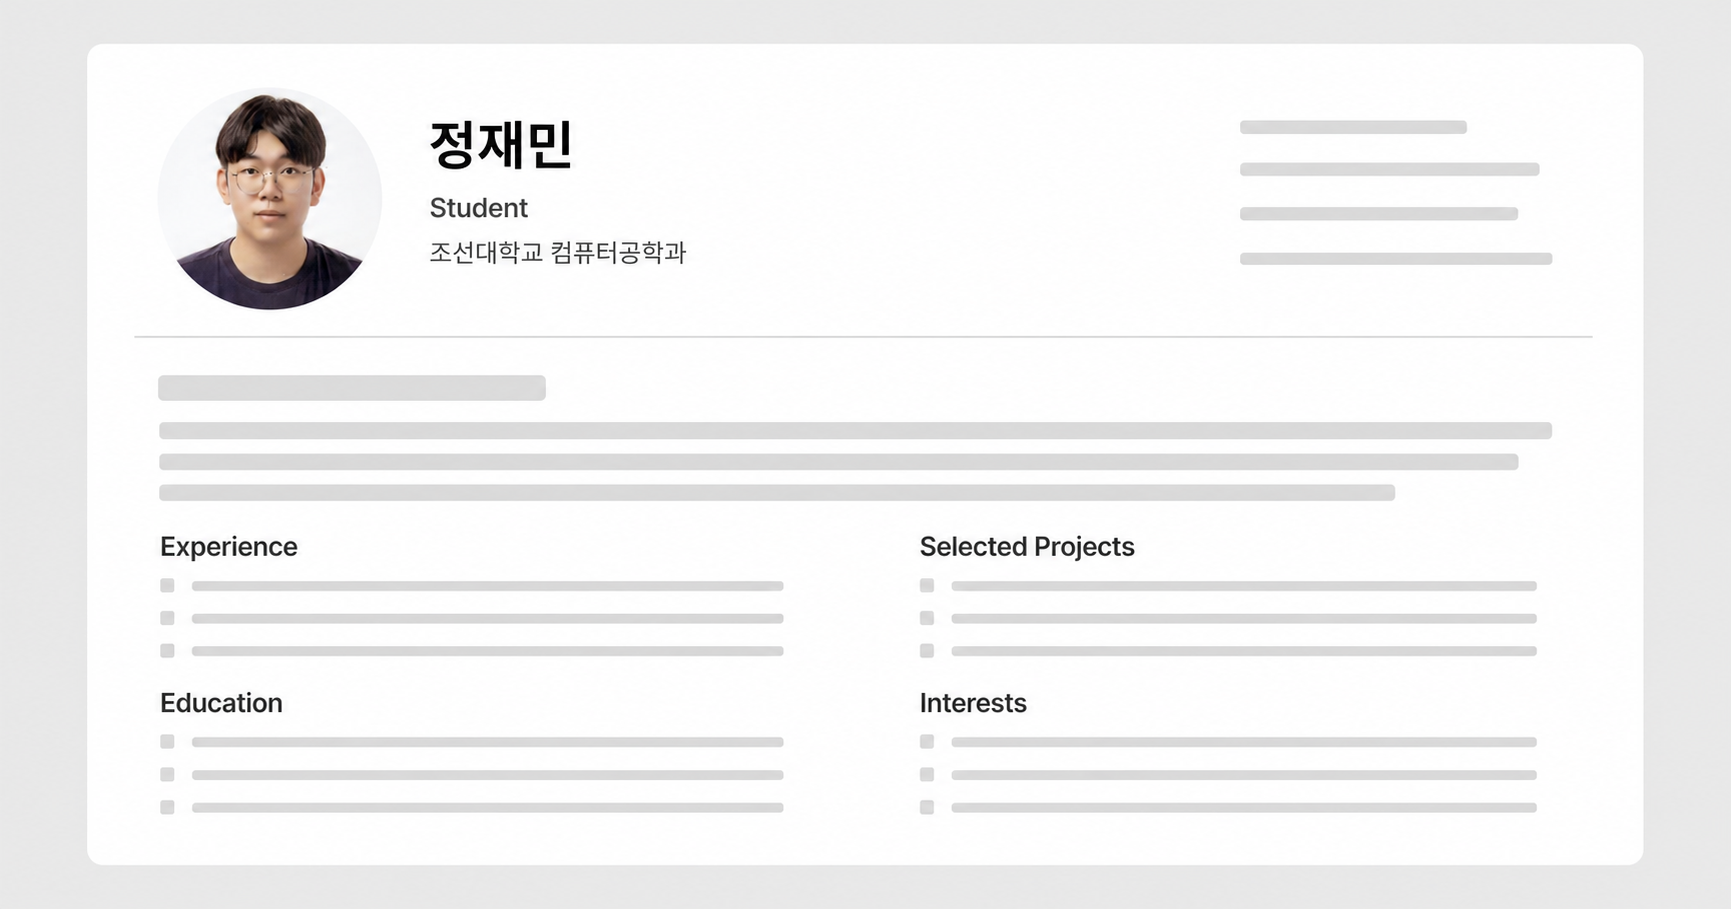
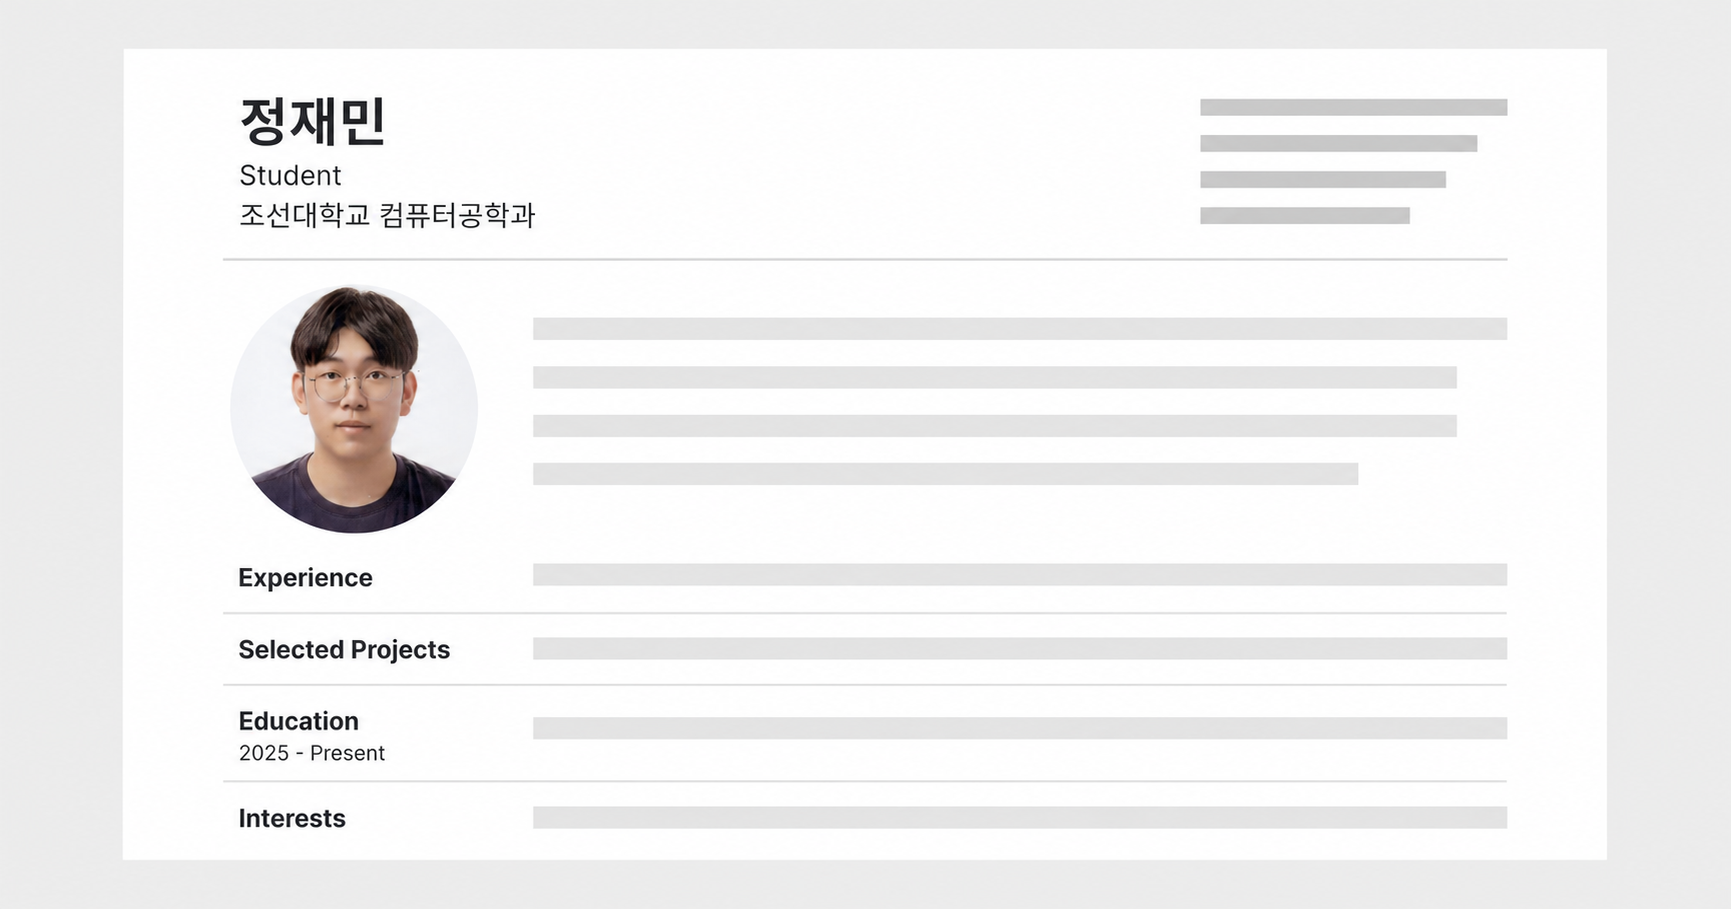
Update university entry year

diff --git a/index.html b/index.html
@@ -34,7 +34,7 @@
         <section class="resume-intro" aria-label="소개">
           <img class="profile-image" src="./profile.png" alt="정재민 프로필 사진" />
           <p>
-            저는 조선대학교 컴퓨터공학과에 재학 중인 정재민입니다. 아이디어를 실제로 작동하는 제품으로
+            저는 2025년 조선대학교 컴퓨터공학과에 입학한 정재민입니다. 아이디어를 실제로 작동하는 제품으로
             바꾸는 일을 좋아합니다. 사용자에게는 단순하고, 내부에는 단단한 시스템을 만들고자 합니다.
             현재 관심 분야와 경험을 더해 소개를 완성할 수 있습니다.
           </p>
@@ -78,7 +78,7 @@
               <div class="side-item">
                 <h3>Computer Engineering</h3>
                 <p>Chosun University</p>
-                <p>2023 - Present</p>
+                <p>2025 - Present</p>
               </div>
             </section>
             <section>
